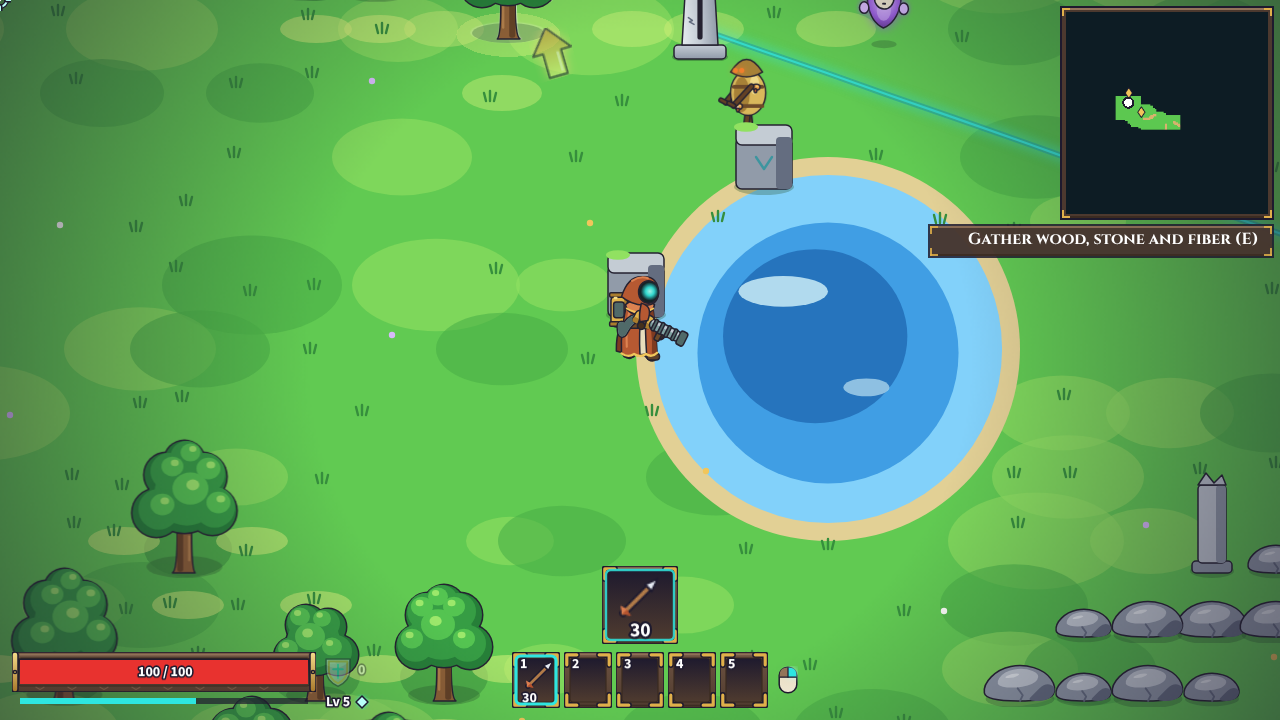
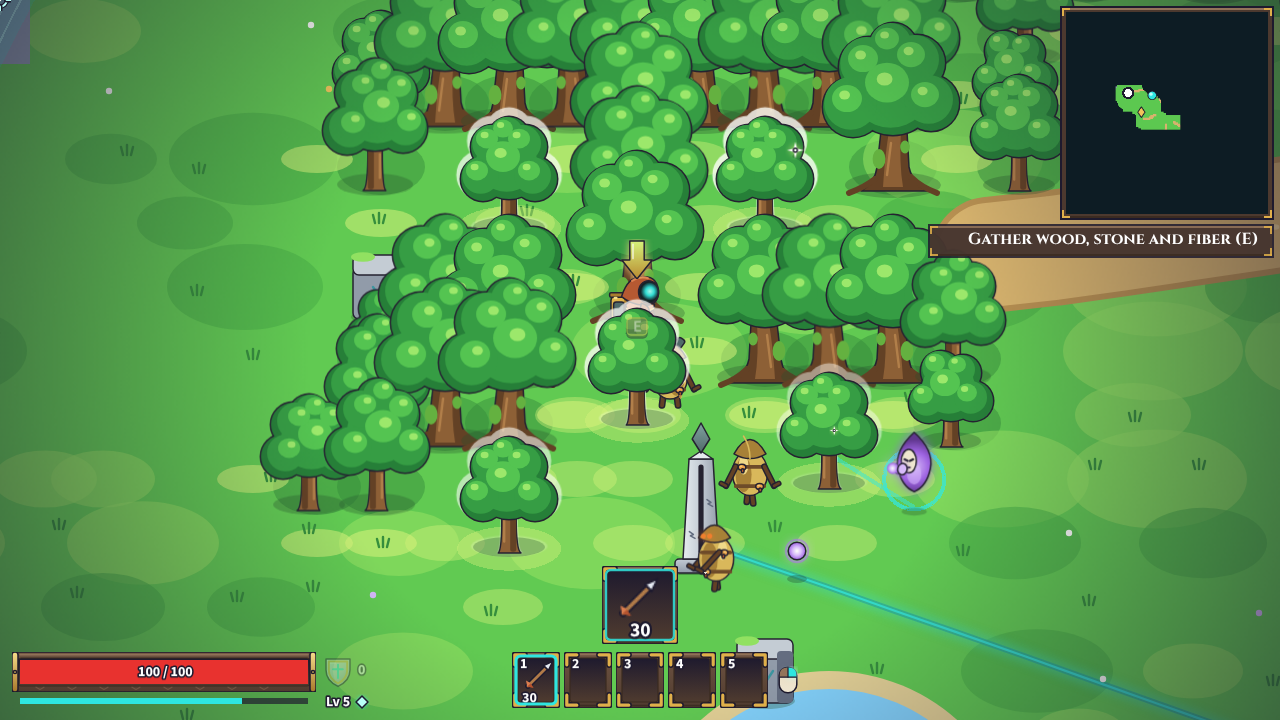
032 shots frame Old Grove, Ley Grotto and North Spring whole
Review: aiming 3 tiles below these areas left only their bottom rows in
view. Aim at the area's middle; a walk ending more than 3 tiles from its
aim now throws. Retake 02, 03 and 09.

Claude-Session: https://claude.ai/code/session_019ig8gw5L4yavYF6tvwkS5C

diff --git a/tests/e2e/landmarksShots.spec.ts b/tests/e2e/landmarksShots.spec.ts
@@ -64,6 +64,8 @@ async function walk(page: Page, points: readonly (readonly [number, number])[]):
           queue.push([tx + dx, ty + dy]);
         }
       }
+      // A walk cut off from its aim would frame the wrong place: fail loudly instead.
+      if (Math.hypot(best[0] - gx, best[1] - gy) > 3) throw new Error(`no reachable tile within 3 of (${gx}, ${gy}); nearest (${best[0]}, ${best[1]})`);
       return best;
     };
     for (const [gx, gy] of pts) {
@@ -83,16 +85,22 @@ test.describe('review screenshots (032)', () => {
     const a = landmarkDef(id).area;
     return [[Math.floor((a.x0 + a.x1) / 2), a.y1 + 3]];
   };
+  // Old Grove, Ley Grotto and North Spring are too tall for that (the player stands too far south to frame them):
+  // walked to the area's middle instead, or the nearest reachable tile to it.
+  const middle = (id: string): (readonly [number, number])[] => {
+    const a = landmarkDef(id).area;
+    return [[Math.floor((a.x0 + a.x1) / 2), Math.floor((a.y0 + a.y1) / 2)]];
+  };
   const views: [string, string, (readonly [number, number])[]][] = [
     ['quarry', '01-quarry', below('quarry')],
-    ['old-grove', '02-old-grove', below('old-grove')],
-    ['ley-grotto', '03-ley-grotto', below('ley-grotto')],
+    ['old-grove', '02-old-grove', middle('old-grove')],
+    ['ley-grotto', '03-ley-grotto', middle('ley-grotto')],
     ['reed-marsh', '04-reed-marsh', below('reed-marsh')],
     ['ruined-cache', '05-ruined-cache-sealed', below('ruined-cache')],
     ['frozen-grotto', '06-frozen-grotto', below('frozen-grotto')],
     ['west-spring', '07-west-spring', below('west-spring')],
     ['south-east-spring', '08-south-east-spring', below('south-east-spring')],
-    ['north-spring', '09-north-spring', below('north-spring')],
+    ['north-spring', '09-north-spring', middle('north-spring')],
   ];
   for (const [id, file, points] of views) {
     test(`the landmark ${id}`, async ({ page }) => {

diff --git a/docs/backlog.md b/docs/backlog.md
@@ -93,5 +93,5 @@ Fixes to built behaviour that need no design. Each goes on its own branch and PR
 - Fixed in 047 (the grid replaced the panel): the inventory panel's Wood row drew "3 at risk" over "home 5" (found in review of 045, 045.11; on main since 031). 047 replaces the panel with the grid inventory, so check it there.
 - The Stages panel showed "0/4 arrows" while the player had arrows in an intake entrance and in the inventory (Shaun, 2026-10-20). Fixed in InsanityWolfz/Pipeline#27: the panel counts carried rounds plus the intake entrances (Shaun chose option A, 2026-10-20).
 - 037's Shatterpoint review shot is broken on main (found in 054's review); retake or fix the shot's staging.
-- Fixed on `claude/fix-old-review-shots`: older review-shot specs failed on main after 053's round world. 032's landmark walks (quarry, old-grove, ley-grotto, north-spring) stopped with "could not reach": the tile just below some areas is solid with no open neighbour, or cut off from the player's side, so the path search found nothing. The walk now goes to the nearest tile reachable from the player; 032/01, 02, 03 and 09 retaken. 030's and 031's shots already pass on main since 055's door helpers restaged them; 030/05 (the shrine's safe zone, moved in 053 and walled in 055) retaken.
+- Fixed on `claude/fix-old-review-shots`: older review-shot specs failed on main after 053's round world. 032's landmark walks (quarry, old-grove, ley-grotto, north-spring) stopped with "could not reach": the tile just below some areas is solid with no open neighbour, or cut off from the player's side, so the path search found nothing. The walk now goes to the nearest tile reachable from the player and fails if that is more than 3 tiles from its aim; Old Grove, Ley Grotto and North Spring aim at their area's middle so the whole landmark is framed; 032/01, 02, 03 and 09 retaken. 030's and 031's shots already pass on main since 055's door helpers restaged them; 030/05 (the shrine's safe zone, moved in 053 and walled in 055) retaken.
 - The sandbox loadout panel's "−" button (setRound) may not cycle an entrance's ammo backwards (found in 054's review); check and fix.

diff --git a/docs/progress.md b/docs/progress.md
@@ -3,7 +3,7 @@
 Newest entry first.
 
 ## 2026-10-21: Bug: older review shots on the round map
-**Changed:** on `claude/fix-old-review-shots`, 032's landmark shots walk to the nearest tile the player can reach below each landmark (the fixed spot was solid or cut off on the round map for the Quarry, Old Grove, Ley Grotto and North Spring). Retook 032/01, 02, 03, 09, and 030/05 (the shrine moved and got its walls). 030's and 031's specs already passed on main after 055; nothing to change there. `npm run check` passes; landmarksShots, healingShots and hudInventoryShots pass with REVIEW_SHOTS=1 (26/26).
+**Changed:** on `claude/fix-old-review-shots`, 032's landmark shots walk to the nearest tile the player can reach below each landmark (the fixed spot was solid or cut off on the round map for the Quarry, Old Grove, Ley Grotto and North Spring), failing if that tile is more than 3 from the aim; Old Grove, Ley Grotto and North Spring aim at their area's middle so they're framed whole (review). Retook 032/01, 02, 03, 09, and 030/05 (the shrine moved and got its walls). 030's and 031's specs already passed on main after 055; nothing to change there. `npm run check` passes; landmarksShots, healingShots and hudInventoryShots pass with REVIEW_SHOTS=1 (26/26).
 
 **Next:** Shaun merges the PR.
 
